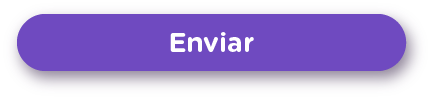
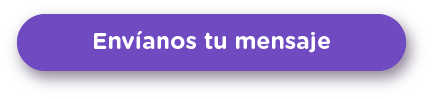
subelo alv

Changed region(s): [[0.2106, 0.303, 0.7824, 0.5455]]

diff --git a/landing/index.html b/landing/index.html
@@ -14,25 +14,14 @@
     <img src="images/3.png" alt="" class="imagen"/>
     <img src="images/4.png" alt="" class="imagen"/>
 
-</section>
-<section class="contenedor">
-<br>
 
 </section>
-<section class="contenedor">
-    <img src="images/form1.png" alt="" class="formA"/>
-<!-- Do not change the code! -->
-<a class="form" id="foxyform_embed_link_911129" href="https://www.foxyform.com/"></a>
-<script type="text/javascript">
-(function(d, t){
-   var g = d.createElement(t),
-       s = d.getElementsByTagName(t)[0];
-   g.src = "https://www.foxyform.com/js.php?id=911129&sec_hash=023180e060b&width=350px";
-   s.parentNode.insertBefore(g, s);
-}(document, "script"));
-</script>
-<!-- Do not change the code! -->
 
+
+<section class="contenedor">
+    <img src="images/5.png" alt="" class="imagen"/>
+	<a href="https://l.facebook.com/l.php?u=https%3A%2F%2Fdocs.google.com%2Fforms%2Fd%2Fe%2F1FAIpQLSeqZWBQEg0An89P_s9ap-NgcUf8EqXOi0VahXE59gYoUyxlkw%2Fviewform%3Fusp%3Dsf_link&h=ATPgHOhnA9rPWSKxKt2wdy3ygvO_zGQN9O7JFb3TMl90ENVnbxq3bnWDCReNuf-xQwX4A3rIOxdzrWWk-kfsVM6oV0p-IAD0Q7JJuwaCD_vRA6F-2gFB5hZq9nhnd_OjNStn785DslIBPfN0xW_F1Ny5NLD9EA" target="_blank"><img src="images/enviar.png" alt="" class="enviar"/>
+	</a>
 
 
 

diff --git a/landing/css/estilos.css b/landing/css/estilos.css
@@ -34,13 +34,10 @@
 	  height:auto;
 }
 
-.formA{
-	width:30%;
+.enviar{
+	position:absolute;
+	  margin-top: -13%;
+	  left: 35%;
+	  width:30%;
+	  height:auto;
 }
-
-.formB{
-	width:10%;
-	margin-right:100px;
-	float:right;
-}
-
